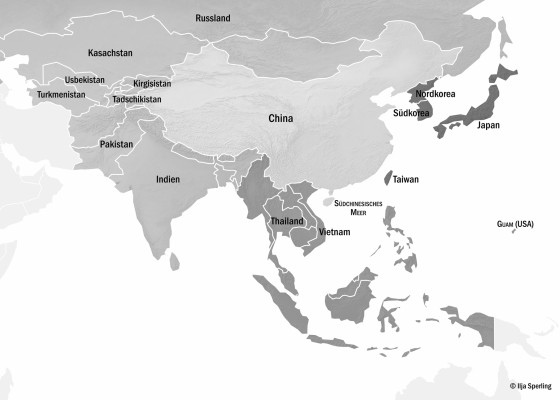
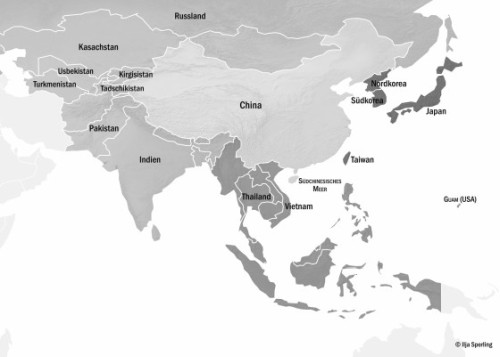
fixed css mobile
500px * 350px new standard for thumbs

diff --git a/static/css/custom.css b/static/css/custom.css
@@ -29,11 +29,10 @@
 
 /* Thumbnails */
 .list__thumbnail{
-	width: 100%;
-	height: 100%;
-	max-width: 280px;
+	width: 40%;
+	max-width: 500px;
 	min-width: 200px;
-	max-height: 200px;
+	max-height: 350px;
 	min-height: 100px;
 	float: left;
 	padding-right: 1.5em;
@@ -43,11 +42,17 @@
 
 @media screen and (max-width: 500px) {
 	.list__thumbnail{
-		width: 100%;
 		height: 100%;
-		min-width: 200px;
+		width: 100%;
+		max-width: 300px;
 		margin: 0 auto;
+		padding-right: 0;
 		float: none;
+	}
+	.post-summary{
+		width: 100%;
+		min-width: 200px;
+		display: inline-block;
 	}
 }
 
